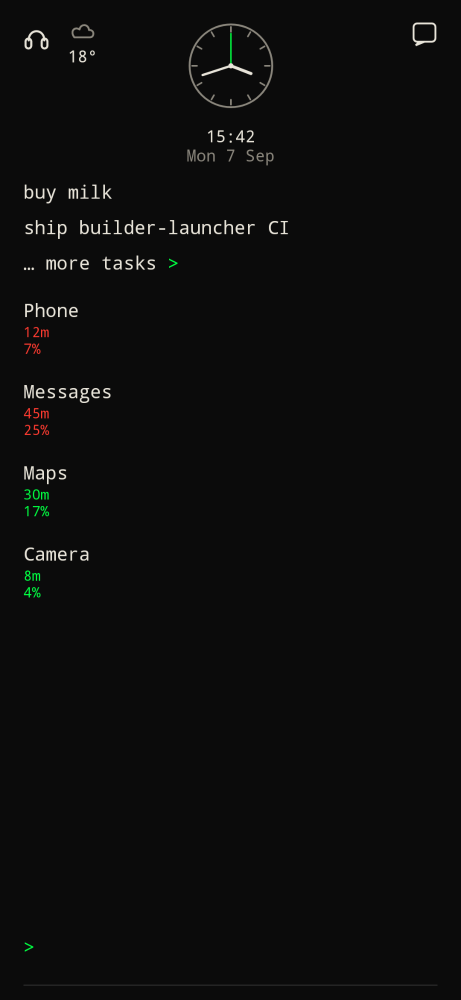
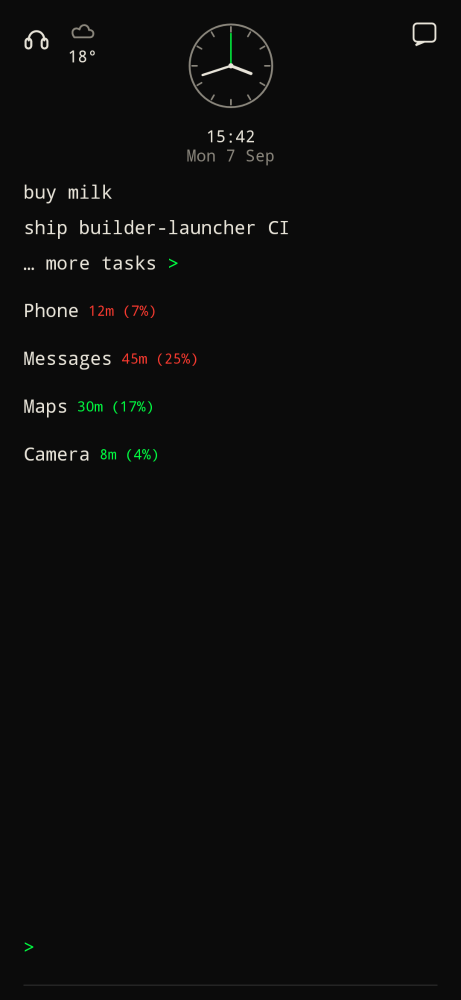
feat: put pin time beside names in plaintext
Plaintext pins show 30m (17%) on the same line as the name.
Icon pins keep minutes then percent stacked under the icon.

diff --git a/app/src/main/java/xyz/cdr/builderlauncher/ui/LauncherChrome.kt b/app/src/main/java/xyz/cdr/builderlauncher/ui/LauncherChrome.kt
@@ -279,9 +279,12 @@ fun HomeChrome(
                 } else {
                     if (!appIcons) {
                         pins.forEachIndexed { index, label ->
-                            Column(Modifier.fillMaxWidth().padding(vertical = 6.dp)) {
+                            Row(
+                                Modifier.fillMaxWidth().padding(vertical = 6.dp),
+                                verticalAlignment = Alignment.CenterVertically,
+                            ) {
                                 Text(label, color = Paper)
-                                pinUsage.getOrNull(index)?.let { ChromePinUsage(it) }
+                                pinUsage.getOrNull(index)?.let { PinUsageInline(it) }
                             }
                         }
                     }
@@ -1516,7 +1519,7 @@ fun SettingsChrome(
             Text("on", color = if (settings.pinUsage) Accent else Dim)
         }
         Text(
-            "Minutes today under each pin, as 30m then 17% on the next line. Green if productive, red if not.",
+            "Minutes today. Names: 30m (17%) beside the pin. Icons: 30m then 17% under the icon. Green if productive, red if not.",
             color = Dim,
             style = MaterialTheme.typography.bodyMedium,
         )

diff --git a/app/src/main/java/xyz/cdr/builderlauncher/ui/PinChrome.kt b/app/src/main/java/xyz/cdr/builderlauncher/ui/PinChrome.kt
@@ -271,7 +271,8 @@ internal fun PinnedAppsTextList(
                     ListReorder.neighborOffset(index, dragFrom!!, dragTo!!, stepPx)
                 else -> 0f
             }
-            Column(
+            Row(
+                verticalAlignment = Alignment.CenterVertically,
                 modifier = Modifier
                     .fillMaxWidth()
                     .zIndex(if (lifting) 1f else 0f)
@@ -315,7 +316,7 @@ internal fun PinnedAppsTextList(
                     .padding(vertical = 6.dp),
             ) {
                 Text(app.label, color = Paper)
-                PinUsageCaption(usage(app))
+                PinUsageInline(usage(app))
             }
         }
     }
@@ -400,6 +401,19 @@ internal fun PinnedAppsRow(
             }
         }
     }
+}
+
+@Composable
+internal fun PinUsageInline(mark: PinUsageMark?) {
+    if (mark == null) return
+    Text(
+        mark.line,
+        color = if (mark.productive) Gain else Loss,
+        style = MaterialTheme.typography.labelSmall,
+        maxLines = 1,
+        overflow = TextOverflow.Ellipsis,
+        modifier = Modifier.padding(start = 8.dp),
+    )
 }
 
 @Composable

diff --git a/app/src/test/java/xyz/cdr/builderlauncher/usage/UsageTest.kt b/app/src/test/java/xyz/cdr/builderlauncher/usage/UsageTest.kt
@@ -35,6 +35,7 @@ class UsageTest {
     fun pinCaptionIsMinutesThenShare() {
         assertEquals("30m", Usage.pinDuration(30 * 60_000L))
         assertEquals("17%", Usage.pinShare(30 * 60_000L, 180 * 60_000L))
+        assertEquals("30m (17%)", PinUsageMark("30m", "17%", true).line)
         assertEquals("0m", Usage.pinDuration(0))
         assertEquals("0%", Usage.pinShare(0, 0))
         assertEquals("0m", Usage.pinDuration(12_000))

diff --git a/app/src/main/java/xyz/cdr/builderlauncher/ui/SettingsScreens.kt b/app/src/main/java/xyz/cdr/builderlauncher/ui/SettingsScreens.kt
@@ -351,7 +351,7 @@ internal fun SettingsPage(
             }
         }
         Text(
-            "Minutes today under each pin, as 30m then 17% on the next line. Green if productive, red if not.",
+            "Minutes today. Names: 30m (17%) beside the pin. Icons: 30m then 17% under the icon. Green if productive, red if not.",
             color = Dim,
             style = MaterialTheme.typography.bodyMedium,
         )

diff --git a/app/src/main/java/xyz/cdr/builderlauncher/usage/Usage.kt b/app/src/main/java/xyz/cdr/builderlauncher/usage/Usage.kt
@@ -80,7 +80,9 @@ data class PinUsageMark(
     val duration: String,
     val share: String,
     val productive: Boolean,
-)
+) {
+    val line: String get() = "$duration ($share)"
+}
 
 data class UsageToday(
     val granted: Boolean,

diff --git a/README.md b/README.md
@@ -83,7 +83,7 @@ Type on the home screen, then Enter.
 | `?` | `?` then write | Full-screen AI chat. Markdown answers (tables, lists, code). `<` home; tap the provider mark to open Grok/ChatGPT/Claude/Hermes with the prompt; long-press it to switch providers; history icon lists past chats with a date and delete |
 | `/` | `/` then pick `settings` | Slash commands listed above the bar (apps, clock, help, hub, notes, podcasts, settings, stocks, usage, weather) |
 | (none) | `Termux` | Search and launch apps. Tap a match to open it |
-| | `pin Termux` / `unpin Termux` | Filter by the name after `pin` or `unpin`; tap a match to pin or unpin. Names on home; icons if settings says so. Pin time (off by default) shows `30m` then `17%` under each pin |
+| | `pin Termux` / `unpin Termux` | Filter by the name after `pin` or `unpin`; tap a match to pin or unpin. Names on home; icons if settings says so. Pin time (off by default) shows `30m (17%)` beside names, or `30m` then `17%` under icons |
 | | `hub` / `notes` / `apps` / `stocks` / `podcasts` / `clock` / `weather` / `settings` / `help` | Built-ins. Screen time is `/usage` |
 
 Swipe up to Home (or the Home button) while already in the launcher returns to this home screen. Home from another app restores the last launcher page (tasks, hub, notes, and so on). Back from an inner page returns home; Back on home resets the command bar to normal `>` mode.

diff --git a/website/src/content/docs/configure/settings.md b/website/src/content/docs/configure/settings.md
@@ -12,7 +12,7 @@ Type `settings` or `/settings`.
 | Accent | Color chips for the cursor, `>` prompt, selected chips, and the `>` on links like more tasks. Default cyberpunk green. |
 | AI providers | `… AI providers >` opens the dedicated screen. [Details](ai-providers/). |
 | Keyboard | `auto`, `hardware`, or `software`. [Keyboard](keyboard/). |
-| Home apps | `plaintext` (default) or `icons`. Names vs grayscale icons for pins and home search. All apps stays in color. **Pin time** `off` (default) or `on` shows minutes today and share of phone time under each pin, as `30m` then `17%` on the next line. Green if the app is productive, red if not. Needs [usage](../use/usage/) access. |
+| Home apps | `plaintext` (default) or `icons`. Names vs grayscale icons for pins and home search. All apps stays in color. **Pin time** `off` (default) or `on` shows minutes today and share of phone time. Names: `30m (17%)` beside the pin. Icons: `30m` then `17%` under the icon. Green if the app is productive, red if not. Needs [usage](../use/usage/) access. |
 | Clock face | `analog` (default) or `digital`. Analog sits in the center of home with the time and date below. |
 | Weather location | Type a city, pick a match. Placeholder: New York. No GPS required. |
 | Weather units | `metric` (Celsius) or `imperial` (Fahrenheit). |

diff --git a/website/src/content/docs/use/apps.md b/website/src/content/docs/use/apps.md
@@ -25,7 +25,7 @@ Default: names in a vertical list on home.
 
 Settings → **Home apps** → `icons` switches pins to a centered horizontal row of grayscale icons. All apps keeps color.
 
-**Pin time** (`off` by default, under Home apps) puts today's minutes and share of phone time under each pin, as `30m` then `17%` on the next line. Green if the app is marked productive, red if not. Grant usage access first. Tap `/usage` to change productive / distracting / other.
+**Pin time** (`off` by default, under Home apps) puts today's minutes and share of phone time on each pin. Names: `30m (17%)` on the same line. Icons: `30m` then `17%` under the icon. Green if the app is marked productive, red if not. Grant usage access first. Tap `/usage` to change productive / distracting / other.
 
 ![Pinned apps with minutes today](../../../assets/screenshots/home-pinned-usage.png)
 

diff --git a/website/src/content/docs/use/usage.md b/website/src/content/docs/use/usage.md
@@ -23,6 +23,6 @@ Android keeps the totals. Builder Launcher does not upload them. Grant **Usage a
 
 YouTube, Instagram, and similar apps start as distracting. Termux, Slack, Gmail, calendars, and maps start as productive. Everything else starts as other, including this launcher and browsers.
 
-Settings → **Home apps** → **Pin time** `on` also shows today's minutes and share of phone time under each pin on home, as `30m` then `17%` on the next line. Green if productive, red if not.
+Settings → **Home apps** → **Pin time** `on` also shows today's minutes and share of phone time on each pin. Names: `30m (17%)` on the same line. Icons: `30m` then `17%` under the icon. Green if productive, red if not.
 
 `<` or Back returns home.
